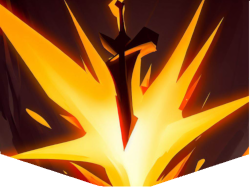
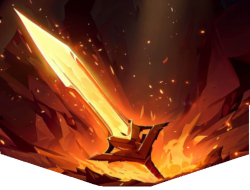
new strike / defend images

diff --git a/theSorcerer/src/main/java/theSorcerer/cards/ice/IceStrike.java b/theSorcerer/src/main/java/theSorcerer/cards/ice/IceStrike.java
@@ -1,35 +1,40 @@
-package theSorcerer.cards;
+package theSorcerer.cards.ice;
 
 import basemod.abstracts.CustomCard;
 import com.megacrit.cardcrawl.actions.AbstractGameAction;
+import com.megacrit.cardcrawl.actions.animations.VFXAction;
 import com.megacrit.cardcrawl.actions.common.DamageAction;
 import com.megacrit.cardcrawl.cards.DamageInfo;
 import com.megacrit.cardcrawl.characters.AbstractPlayer;
+import com.megacrit.cardcrawl.core.Settings;
 import com.megacrit.cardcrawl.monsters.AbstractMonster;
+import theSorcerer.cards.DynamicCard;
 import theSorcerer.cards.fire.FireStrike;
-import theSorcerer.cards.ice.IceStrike;
+import theSorcerer.effect.FireParticleEffect;
 
-public class Strike_Yellow extends SorcererCard {
+public class IceStrike extends SorcererIceCard {
 
     // --- VALUES START ---
     private static final int COST = 1;
     private static final int DAMAGE = 6;
-    private static final int UPGRADE_DAMAGE = 3;
+    private static final int UPGRADE_PLUS_DMG = 3;
     // --- VALUES END ---
 
-    public Strike_Yellow() {
+    public IceStrike() {
         super(
-                DynamicCard.InfoBuilder(Strike_Yellow.class)
+                DynamicCard.InfoBuilder(IceStrike.class)
                         .cost(COST)
                         .type(CardType.ATTACK)
                         .rarity(CardRarity.BASIC)
                         .target(CardTarget.ENEMY)
-                        .tags(CardTags.STARTER_STRIKE, CardTags.STRIKE)
+                        .tags(CardTags.STRIKE)
                         .damage(DAMAGE)
         );
     }
 
+    @Override
     public void use(AbstractPlayer player, AbstractMonster monster) {
+        // damage
         addToBot(
                 new DamageAction(
                         monster,
@@ -41,6 +46,16 @@ public class Strike_Yellow extends SorcererCard {
                         AbstractGameAction.AttackEffect.BLUNT_LIGHT
                 )
         );
+
+        // effect
+        if (monster != null) {
+            if (Settings.FAST_MODE) {
+                addToBot(new VFXAction(new FireParticleEffect(monster.hb.cX, monster.hb.cY - 40.0F * Settings.scale), 0.1F));
+            }
+            else {
+                addToBot(new VFXAction(new FireParticleEffect(monster.hb.cX, monster.hb.cY - 40.0F * Settings.scale), 0.3F));
+            }
+        }
     }
 
     @Override
@@ -57,7 +72,8 @@ public class Strike_Yellow extends SorcererCard {
         this.loadCardImage(iceStrike.textureImg);
     }
 
-    public void upgradeValues() {
-        upgradeDamage(UPGRADE_DAMAGE);
+    @Override
+    protected void upgradeValues() {
+        upgradeDamage(UPGRADE_PLUS_DMG);
     }
 }

diff --git a/theSorcerer/src/main/java/theSorcerer/cards/fire/FireStrike.java b/theSorcerer/src/main/java/theSorcerer/cards/fire/FireStrike.java
@@ -1,5 +1,6 @@
 package theSorcerer.cards.fire;
 
+import basemod.abstracts.CustomCard;
 import com.megacrit.cardcrawl.actions.AbstractGameAction;
 import com.megacrit.cardcrawl.actions.animations.VFXAction;
 import com.megacrit.cardcrawl.actions.common.DamageAction;
@@ -8,6 +9,7 @@ import com.megacrit.cardcrawl.characters.AbstractPlayer;
 import com.megacrit.cardcrawl.core.Settings;
 import com.megacrit.cardcrawl.monsters.AbstractMonster;
 import theSorcerer.cards.DynamicCard;
+import theSorcerer.cards.ice.IceStrike;
 import theSorcerer.effect.FireParticleEffect;
 
 public class FireStrike extends SorcererFireCard {
@@ -54,6 +56,20 @@ public class FireStrike extends SorcererFireCard {
                 addToBot(new VFXAction(new FireParticleEffect(monster.hb.cX, monster.hb.cY - 40.0F * Settings.scale), 0.3F));
             }
         }
+    }
+
+    @Override
+    public void triggerOnMakeFire() {
+        CustomCard fireStrike = new FireStrike();
+        this.name = fireStrike.name;
+        this.loadCardImage(fireStrike.textureImg);
+    }
+
+    @Override
+    public void triggerOnMakeIce() {
+        CustomCard iceStrike = new IceStrike();
+        this.name = iceStrike.name;
+        this.loadCardImage(iceStrike.textureImg);
     }
 
     @Override

diff --git a/theSorcerer/src/main/java/theSorcerer/cards/fire/FireDefend.java b/theSorcerer/src/main/java/theSorcerer/cards/fire/FireDefend.java
@@ -1,4 +1,4 @@
-package theSorcerer.cards.ice;
+package theSorcerer.cards.fire;
 
 import basemod.abstracts.CustomCard;
 import com.megacrit.cardcrawl.actions.common.GainBlockAction;
@@ -6,9 +6,10 @@ import com.megacrit.cardcrawl.characters.AbstractPlayer;
 import com.megacrit.cardcrawl.core.CardCrawlGame;
 import com.megacrit.cardcrawl.monsters.AbstractMonster;
 import theSorcerer.cards.DynamicCard;
-import theSorcerer.cards.fire.FireDefend;
+import theSorcerer.cards.ice.IceDefend;
+import theSorcerer.cards.ice.SorcererIceCard;
 
-public class IceDefend extends SorcererIceCard {
+public class FireDefend extends SorcererIceCard {
 
     // --- VALUES START ---
     private static final int COST = 1;
@@ -16,9 +17,9 @@ public class IceDefend extends SorcererIceCard {
     private static final int UPGRADE_PLUS_BLOCK = 3;
     // --- VALUES END ---
 
-    public IceDefend() {
+    public FireDefend() {
         super(
-                DynamicCard.InfoBuilder(IceDefend.class)
+                DynamicCard.InfoBuilder(FireDefend.class)
                         .cost(COST)
                         .type(CardType.SKILL)
                         .rarity(CardRarity.BASIC)

diff --git a/theSorcerer/src/main/java/theSorcerer/cards/Defend_Yellow.java b/theSorcerer/src/main/java/theSorcerer/cards/Defend_Yellow.java
@@ -1,8 +1,11 @@
 package theSorcerer.cards;
 
+import basemod.abstracts.CustomCard;
 import com.megacrit.cardcrawl.actions.common.GainBlockAction;
 import com.megacrit.cardcrawl.characters.AbstractPlayer;
 import com.megacrit.cardcrawl.monsters.AbstractMonster;
+import theSorcerer.cards.fire.FireDefend;
+import theSorcerer.cards.ice.IceDefend;
 
 public class Defend_Yellow extends SorcererCard {
 
@@ -32,6 +35,20 @@ public class Defend_Yellow extends SorcererCard {
                         this.block
                 )
         );
+    }
+
+    @Override
+    public void triggerOnMakeFire() {
+        CustomCard fireStrike = new FireDefend();
+        this.name = fireStrike.name;
+        this.loadCardImage(fireStrike.textureImg);
+    }
+
+    @Override
+    public void triggerOnMakeIce() {
+        CustomCard iceStrike = new IceDefend();
+        this.name = iceStrike.name;
+        this.loadCardImage(iceStrike.textureImg);
     }
 
     public void upgradeValues() {

diff --git a/theSorcerer/src/main/java/theSorcerer/DynamicDungeon.java b/theSorcerer/src/main/java/theSorcerer/DynamicDungeon.java
@@ -157,6 +157,9 @@ public class DynamicDungeon {
 
     public static void makeCardFire(final AbstractCard card) {
         if (!isArcaneCard(card) && !isFireCard(card)) {
+            if (card instanceof DynamicCard) {
+                ((DynamicCard) card).triggerOnMakeFire();
+            }
             addModifierToCard(card, new FireMod());
         }
     }
@@ -167,6 +170,9 @@ public class DynamicDungeon {
 
     public static void makeCardIce(final AbstractCard card) {
         if (!isArcaneCard(card) && !isIceCard(card)) {
+            if (card instanceof DynamicCard) {
+                ((DynamicCard) card).triggerOnMakeIce();
+            }
             addModifierToCard(card, new IceMod());
         }
     }

diff --git a/theSorcerer/src/main/java/theSorcerer/cards/DynamicCard.java b/theSorcerer/src/main/java/theSorcerer/cards/DynamicCard.java
@@ -316,6 +316,10 @@ public abstract class DynamicCard extends CustomCard {
 
     public void triggerOnElementCost(final ElementAmount elementAmountSpend) {}
 
+    public void triggerOnMakeFire() {}
+
+    public void triggerOnMakeIce() {}
+
     @Override
     public AbstractCard makeStatEquivalentCopy() {
         DynamicCard card = (DynamicCard) super.makeStatEquivalentCopy();
